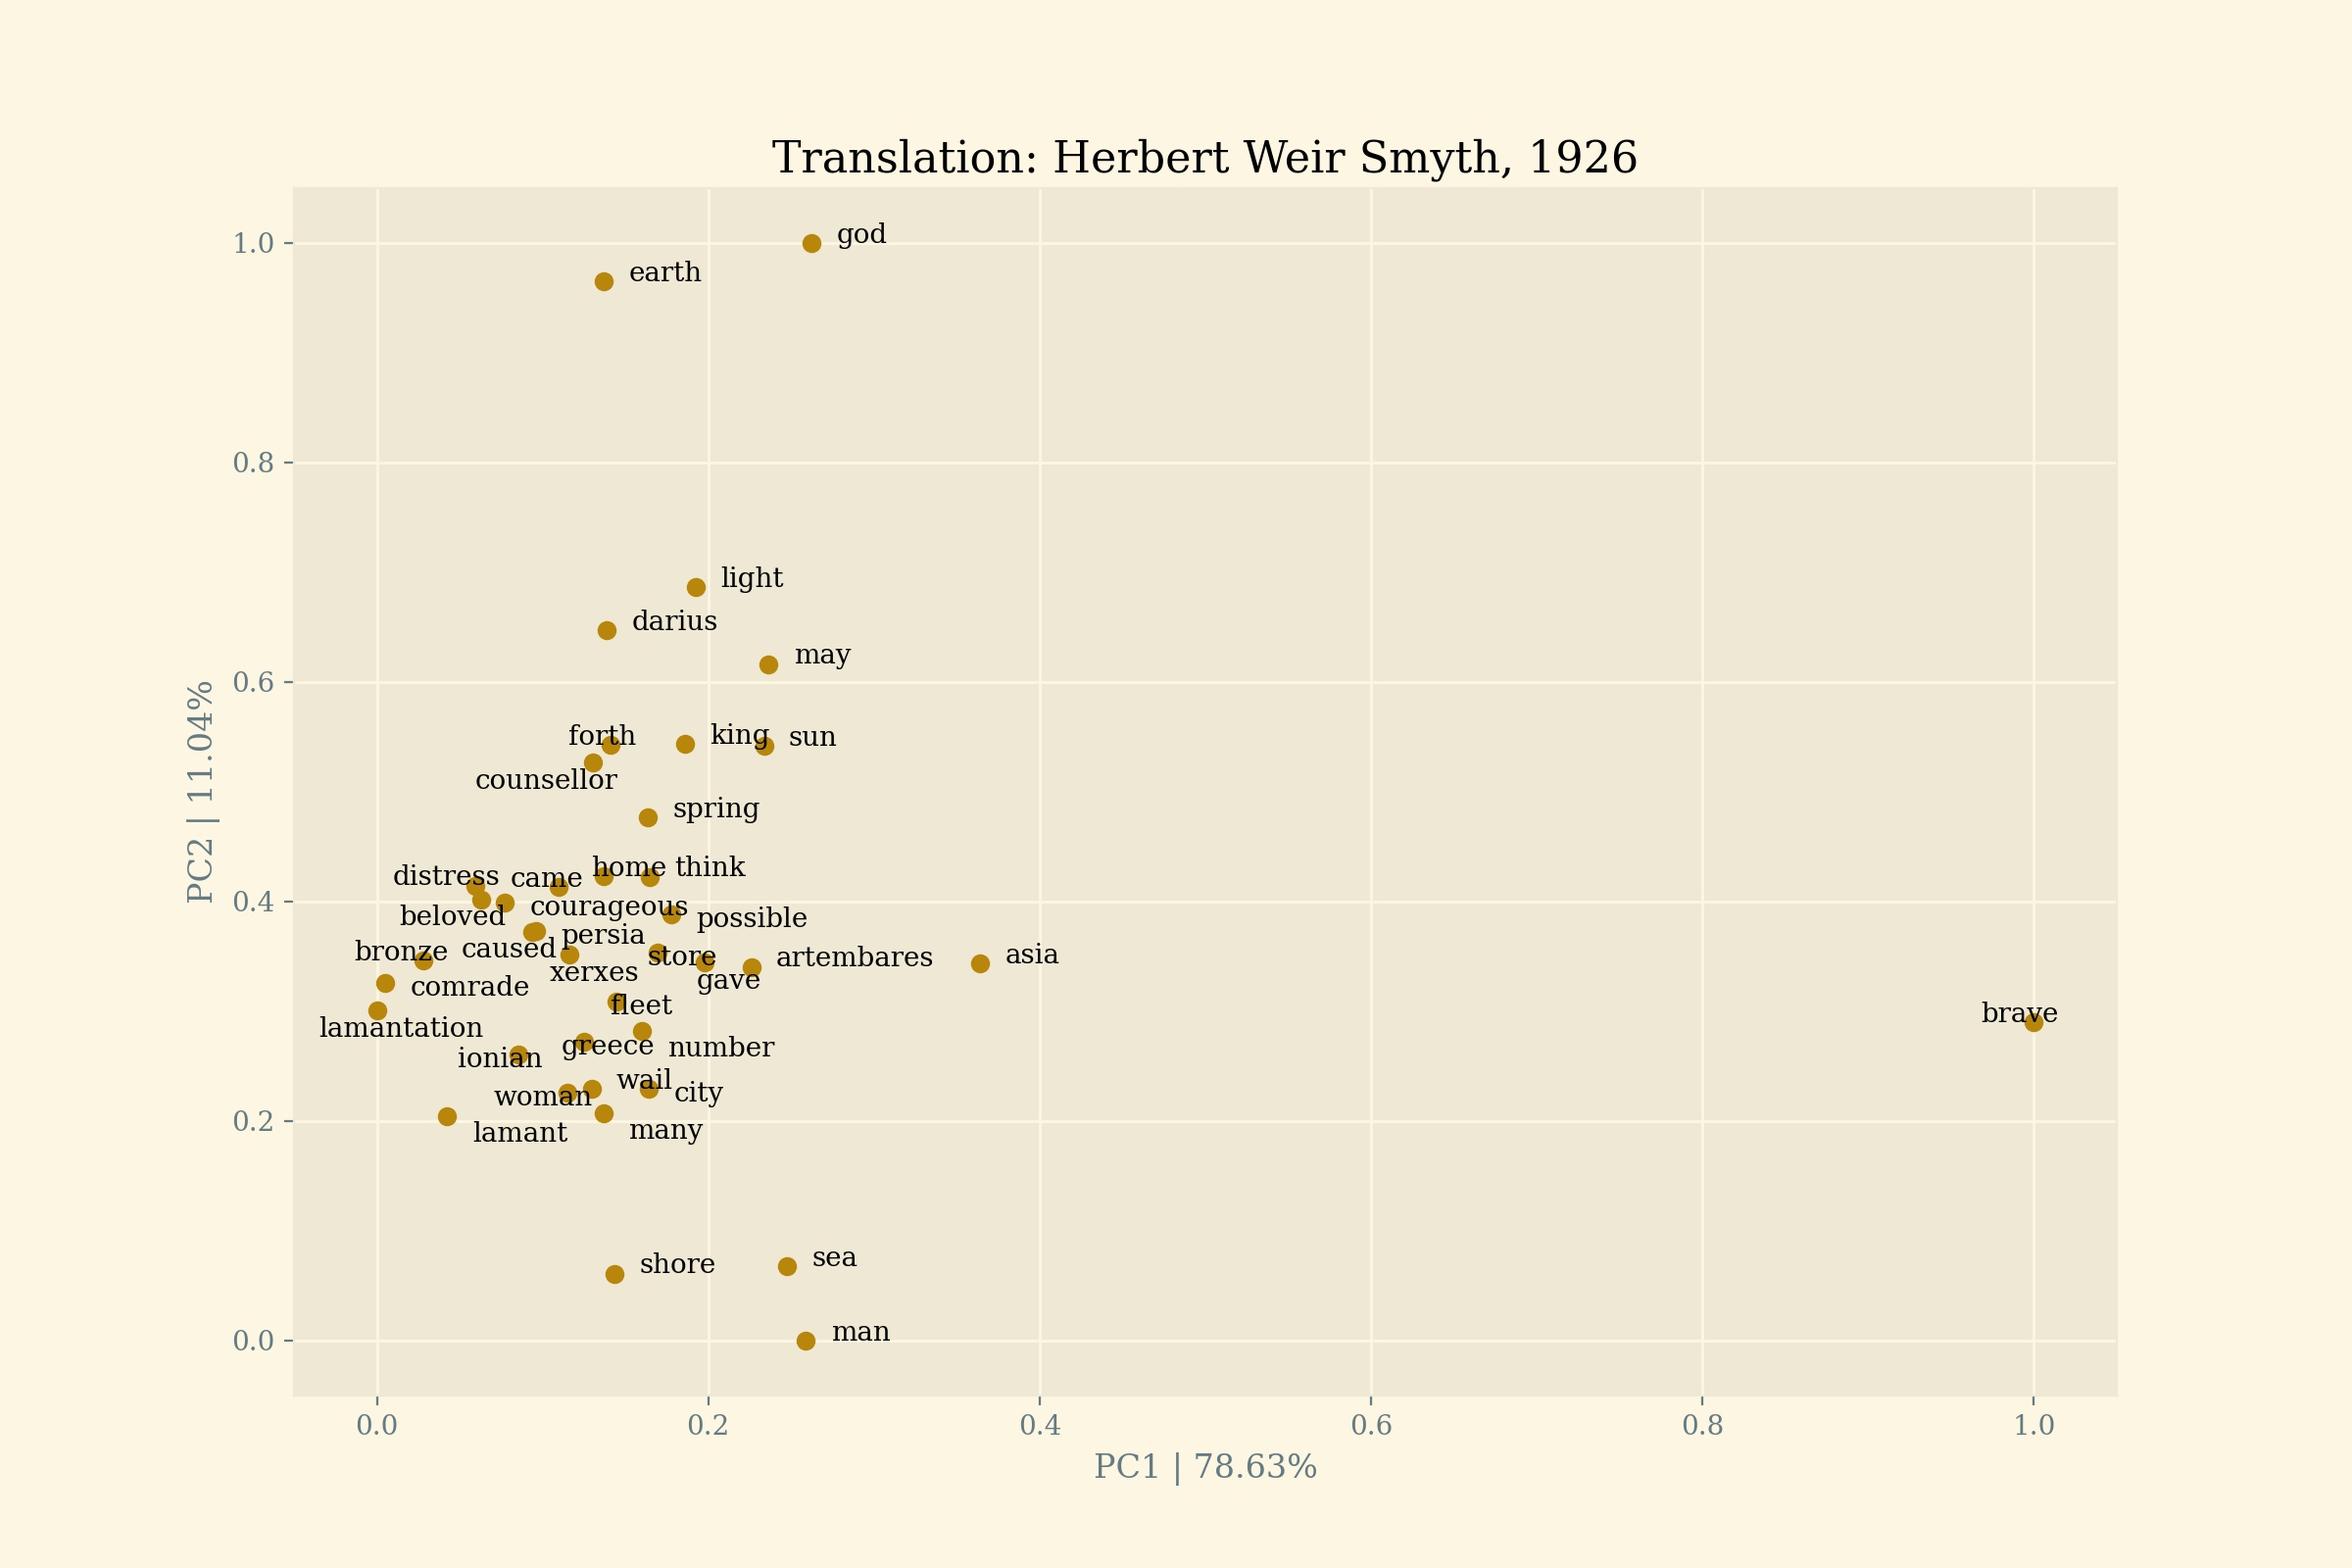
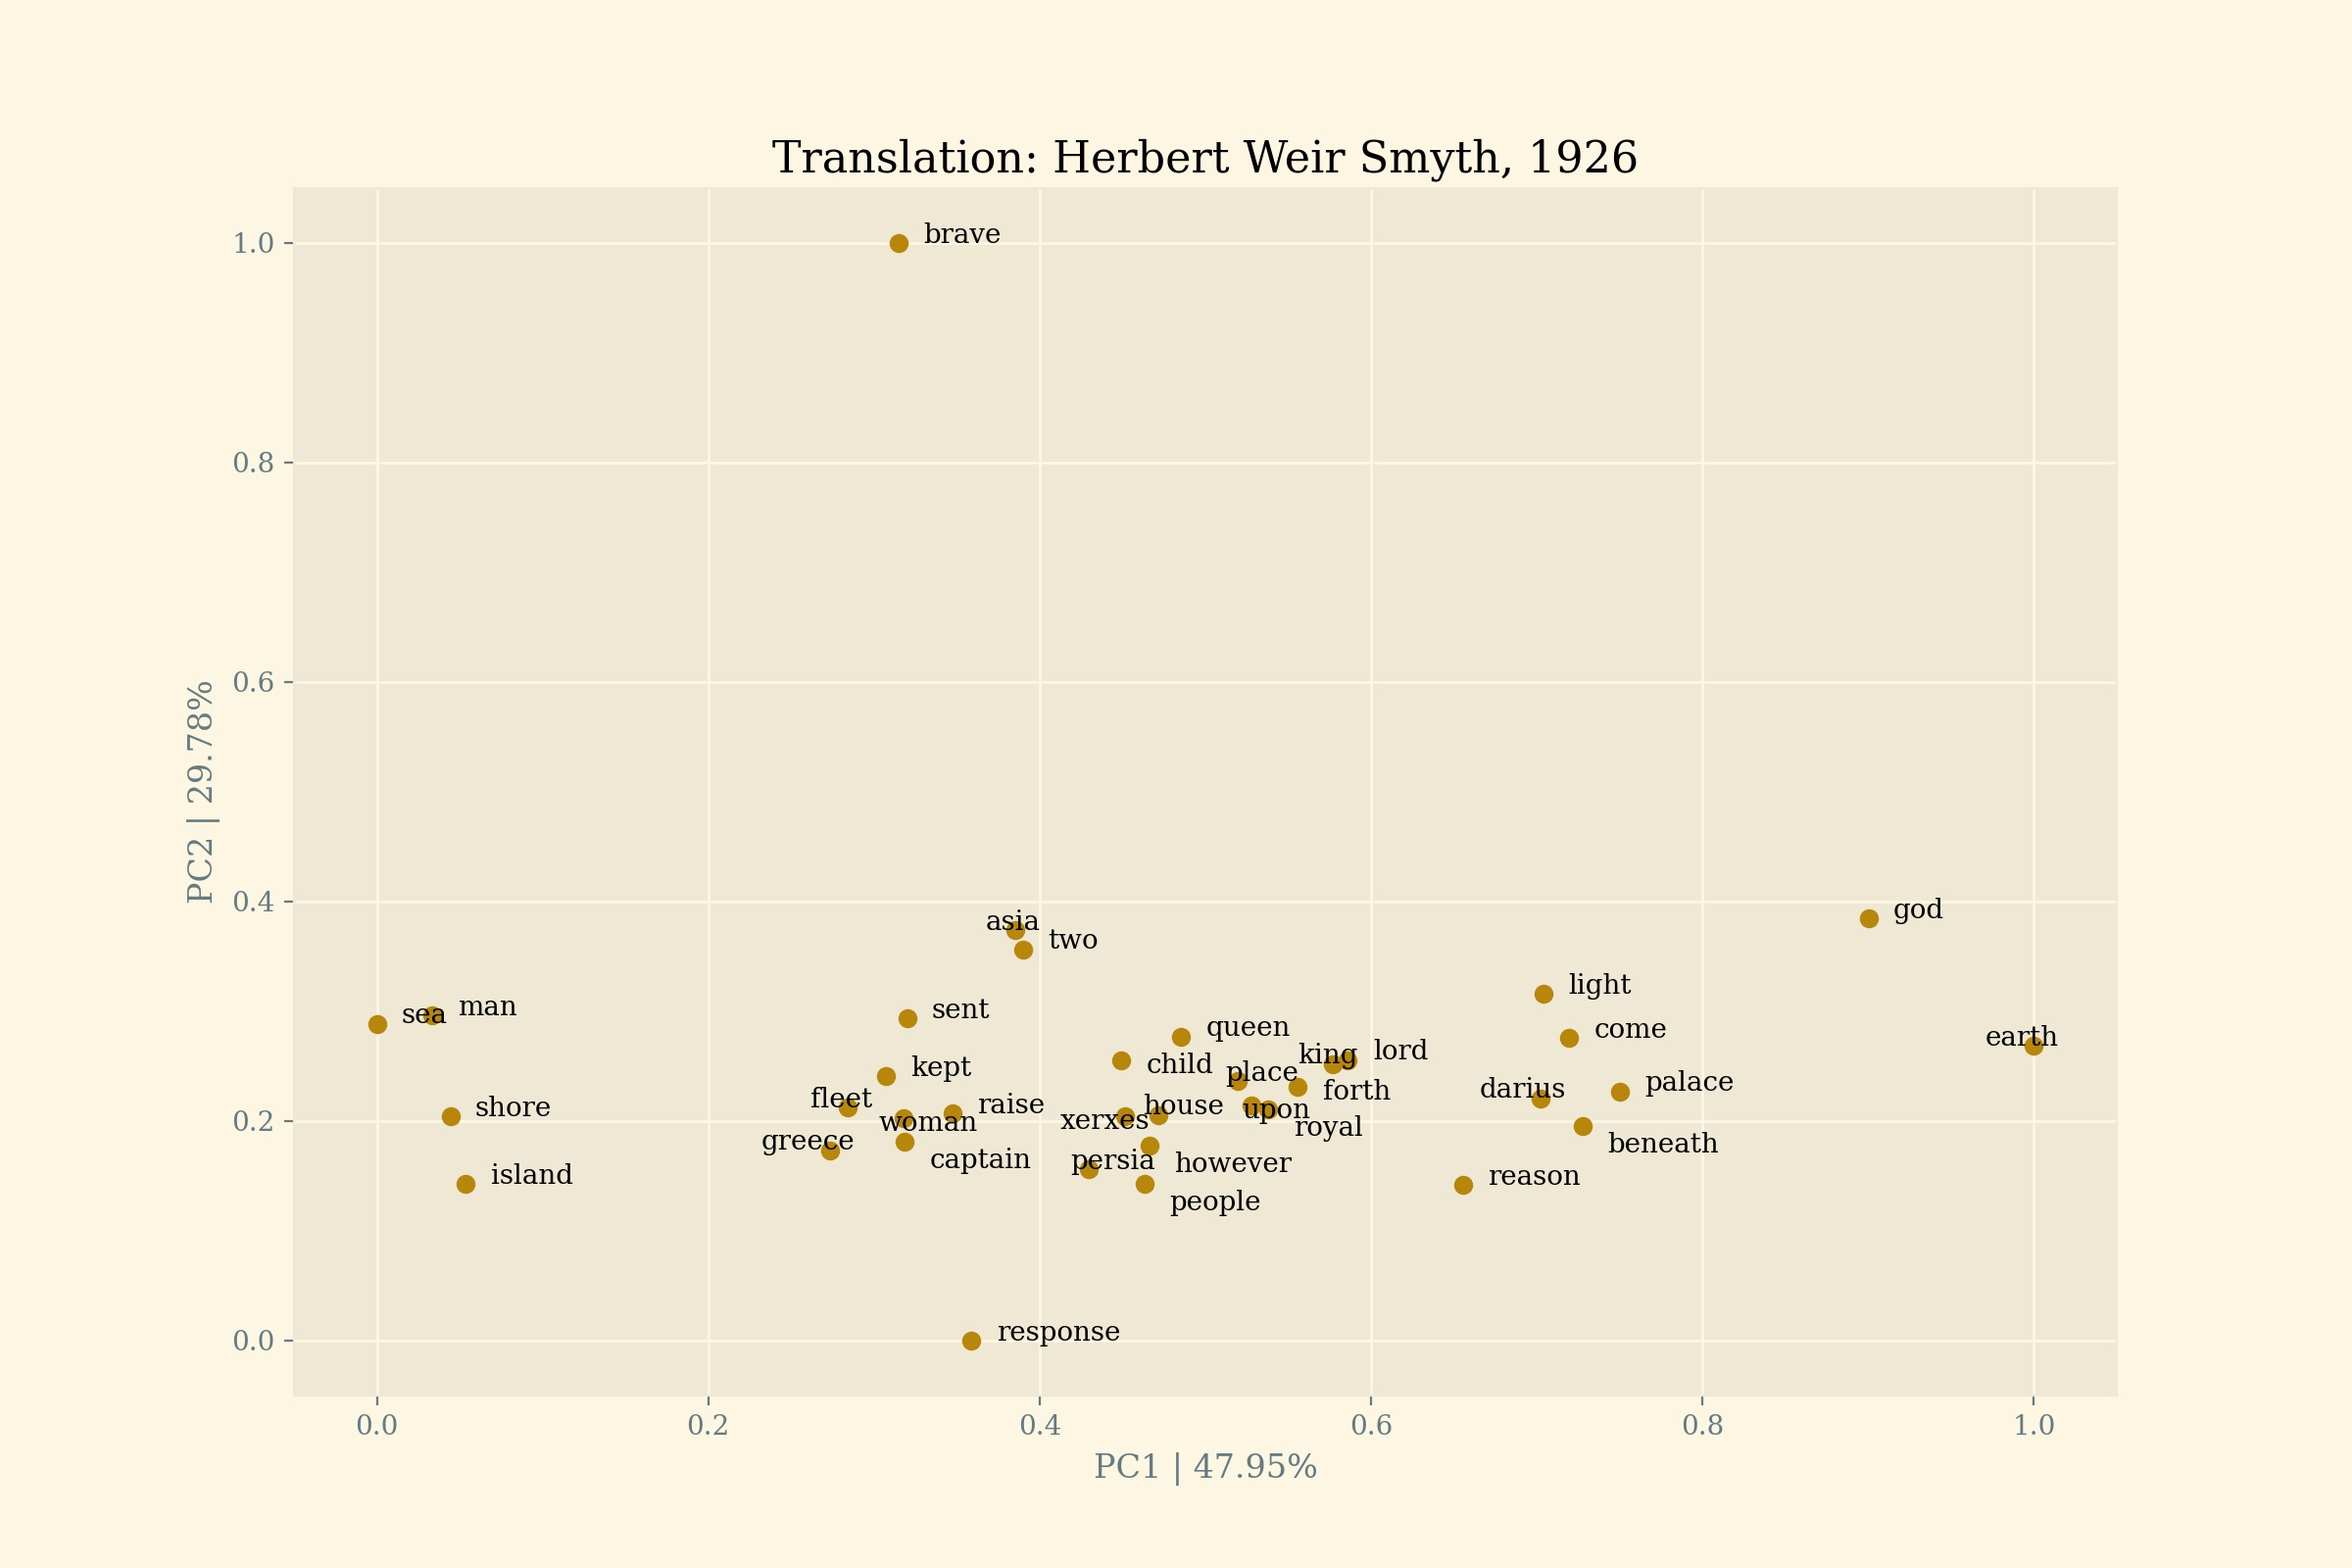
improved table and graph appearances

diff --git a/core/graph.py b/core/graph.py
@@ -1,6 +1,7 @@
 from __future__ import annotations
 from adjustText import adjust_text
 import matplotlib.pyplot as plt
+import matplotlib.transforms as tfm
 import matplotlib.animation as animation
 import numpy as np
 import dataframe_image as dfi
@@ -29,7 +30,7 @@ def scatter_embeddings(t: Translation, words: List[str], pcs, explained_variance
         plt.title(f"Translation: {t.get_info()}") 
         plt.savefig(save_path, dpi=200)
 
-def tabulate_embeddings(embeddings: dict, file_path: str):
+def tabulate_embeddings(embeddings: dict, save_path: str, t_info: str):
     table = pd.DataFrame.from_dict(embeddings)
     table.style.hide_index()
     table.style.set_properties(**{
@@ -37,7 +38,20 @@ def tabulate_embeddings(embeddings: dict, file_path: str):
         'color': 'black',                       
         'border-color': 'tan'
     })
-    dfi.export(table, file_path)
+    #bbox = tfm.Bbox([[2, 1], [10, 7]])
+    with plt.style.context('Solarize_Light2'):
+        fig = plt.figure(figsize=(12, 4))
+        plt.rcParams.update({'font.family': 'serif'})
+        rowColours = ['goldenrod']
+        rowLabels = [f"{i}" for i in range(1, len(table.index) + 1)]
+        tbl = plt.table(cellText = table.values, rowLabels = rowLabels, colLabels = table.columns, loc = "center")
+        tbl.scale(1, 2)
+        tbl.auto_set_font_size(False)
+        tbl.set_fontsize(11)
+        plt.title(f"Closest Keyword Associations | Translation: {t_info}")
+        plt.axis('off')
+        plt.savefig(save_path, dpi=200)
+    #dfi.export(table, file_path)
 
 def animate_embeddings(embedding_info, save_path: str) -> None:
     with plt.style.context('Solarize_Light2'):

diff --git a/driver.py b/driver.py
@@ -110,18 +110,18 @@ class Driver:
             for section in text:
                 counts += np.array([section.count(w) for w in key_words])
                 corpus.append(section.split(' '))
-            similar_words, all_words, pcs, explained_variance = analysis.analyze_embeddings(corpus, key_words, kwargs)
-            all_words, indices = np.unique(all_words, return_index=True)
+            table_words, graph_words, pcs, explained_variance = analysis.analyze_embeddings(corpus, key_words, kwargs, settings.neighbors)
+            graph_words, indices = np.unique(graph_words, return_index=True)
             pcs = pcs[indices]
             points = analysis.normalize2D(pcs[:, 0], pcs[:, 1])
             plot_save_path = os.path.join(self.paths["figures"], text_path, "embeddings", f"embeddings_{t.lastname}.jpg")
             table_save_path = os.path.join(self.paths["figures"], text_path, "tables", f"table_{t.lastname}.png")
-            graph.scatter_embeddings(t, all_words, points, explained_variance, plot_save_path, adjust_annotations = True)
-            graph.tabulate_embeddings(similar_words, table_save_path)
+            graph.scatter_embeddings(t, graph_words, points, explained_variance, plot_save_path, adjust_annotations = True)
+            graph.tabulate_embeddings(table_words, table_save_path, t.get_info())
             if printing:
                 print()
                 t.print_info()
-                for i, (k,v) in enumerate(similar_words.items()):
+                for i, (k,v) in enumerate(table_words.items()):
                     print(f"{k} ({counts[i]}): {v}")
                 print('-----------------------------------')
 

diff --git a/core/analysis.py b/core/analysis.py
@@ -72,22 +72,16 @@ def preprocess_text(text: List[str], stopwords = [], lemmatize: bool = True, rep
 
     return processed_text
 
-def analyze_embeddings(text: list, key_words: List[str], kwargs: dict):
-    model = FastText(
-        text,
-        vector_size = kwargs["vector_size"],
-        window      = kwargs["window"],
-        min_count   = kwargs["min_count"],
-        sample      = kwargs["sample"],
-        sg          = kwargs["sg"]
-    )
+def analyze_embeddings(text: list, key_words: List[str], kwargs: dict, neighbors: dict):
+    model = FastText(text, **kwargs)
 
-    semantically_similar_words = {words: [item[0] for item in model.wv.most_similar([words], topn=4)] for words in key_words}
-    all_words = np.array(sum([[k] + v for k, v in semantically_similar_words.items()], []))
-    word_vectors = model.wv[all_words]
+    table_words = {words: [item[0] for item in model.wv.most_similar([words], topn = neighbors["table"])] for words in key_words}
+    graph_words = {words: [item[0] for item in model.wv.most_similar([words], topn = neighbors["graph"])] for words in key_words}
+    flattened_graph_words = np.array(sum([[k] + v for k, v in graph_words.items()], []))
+    word_vectors = model.wv[flattened_graph_words]
     pca = PCA(n_components = 2)
     p_comps = pca.fit_transform(word_vectors)
     explained_variance = pca.explained_variance_ratio_
 
-    return semantically_similar_words, all_words, p_comps, explained_variance
+    return table_words, flattened_graph_words, p_comps, explained_variance
     

diff --git a/core/settings.py b/core/settings.py
@@ -36,11 +36,14 @@ replacements = [
 ]
 
 #----------WORD EMBEDDINGS-------------#
-TOPN = 4
+neighbors = {
+    "table": 5,
+    "graph": 3
+}
 
 embeddings_kwargs = {
     "vector_size": 64,
-    "window": 10,
+    "window": 15,
     "min_count": 5,
     "sample": 1e-2,
     "sg": 1
@@ -55,7 +58,8 @@ key_words = {
         'god', 
         'brave',
         'king',
-        'xerxes'
+        'xerxes',
+        'darius'
     ],
     'Gallicum': [
         'man',
